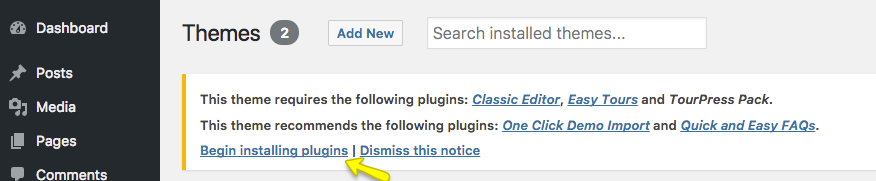
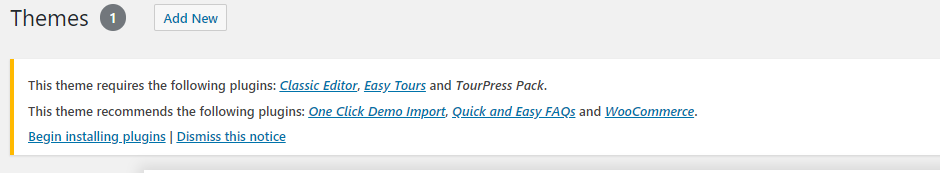
Plugin installation images improved

diff --git a/docs/installation.md b/docs/installation.md
@@ -52,3 +52,8 @@ After you have installed and activated the theme, there'll be a list of **requir
 4. **Activate** the Installed Plugins.
 
     ![img](img/07-install.png)
+    
+!!! warning ""
+    It is important to skip **WooCommerce wizard** in order to work with **One Click Demo** properly.
+    
+ ![img](img/09-install.png)
